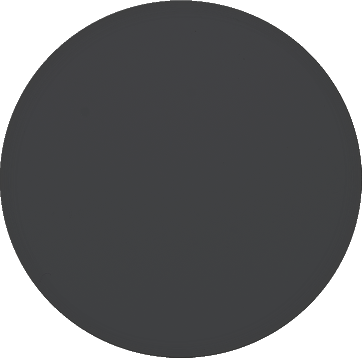
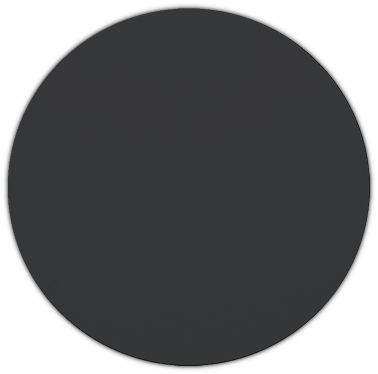
Permet de se déplaceer sur la mini-timeline Modifications mineures

Changed region(s): [[0.0, 0.0, 1.0, 1.0]]

diff --git a/Website/js/script-frise.js b/Website/js/script-frise.js
@@ -38,7 +38,7 @@ var eventsLaw = [	new Event(1968, "", "Convention de Vienne", "list-alt", 3, "Co
 
 var eventsDiv = [	new Event(1957, "", "Les véhicules autonomes dans la littérature", "book", 3, "Premières apparitions de véhicules autonomes dans la littérature", null),
 					new Event(2015, "Décembre", "Stephen Boulder prévient du danger de la conduite assistée", null, 2, "Stephen Boulder, ingénieur chez Jaguar, estime que la conduite semi-automatique est dangereuse et crée un fausse impression de sécurité", null),
-					new Event(2015, "Octobre", "Volvo prend la responsabilité de ses véhicules autonomes", null, 3, "Annonce de l'entière responsabilité de ses véhicules autonomes assumée par Håkan Samuelsson (PDG Volvo)", "http://fortune.com/2015/10/07/volvo-liability-self-driving-cars/"),
+					new Event(2015, "Octobre", "Volvo prend la responsabilité de ses véhicules autonomes", null, 2, "Annonce de l'entière responsabilité de ses véhicules autonomes assumée par Håkan Samuelsson (PDG Volvo)", "http://fortune.com/2015/10/07/volvo-liability-self-driving-cars/"),
 					new Event(2016, "Février", "Accrochage d'une Google Car", "fire", 2, "Accrochage mineure d'une Google Car Lexus avec un bus sur une route Californienne", "https://www.wired.com/2016/02/googles-self-driving-car-may-caused-first-crash/"),
 					new Event(2016, "Avril", "Les 10 questions de Consumer Watchdog à Google", null, 2, "Les 10 questions de Consumer Watchdog adressées à Google au sujet de la sécurité en marge du NHTSA", "http://www.consumerwatchdog.org/newsrelease/google%E2%80%99s-proposal-%E2%80%9Cfast-track%E2%80%9D-approval-driverless-cars-threat-public-safety-consumer-wa"),
 					new Event(2020, "", "Objectif zéro mort ou blessé grave", null, 3, "Objectif zéro mort ou blessé grave dans un accident impliquant un véhicule récent de la marque Volvo", null)];
@@ -54,6 +54,7 @@ $(function(){
 $(document).ready(function(){
 	timelineCreator (); // génère tous les blocks sur la timeline
 	timelineCalibrate(); // Gère l'affichage ou non des blocks et initialise "blockShow"
+	$("#menu-content").click(function(event) {onMiniTimeline(event);});
 	$("table").click(function() {onNull();});
 	onNull();
 });
@@ -164,6 +165,11 @@ function onBlock(id) {
 
 	if($("#content").css("display").localeCompare("none") == 0)
 		$("#content").animate({width:'toggle'},350);
+	preventProp (event);
+}
+
+// prevent immediate clic propagation
+function preventProp (event){
 	event.stopImmediatePropagation();
 }
 
@@ -183,7 +189,7 @@ function onNull() {
 		$("#content").animate({width:'toggle'},350);
 }
 
-// Get Event from block id
+// get Event from block id
 function id2e(id) {
 	id = id.substr(5);
 	var i = id.substr(0, 1);
@@ -196,6 +202,11 @@ function id2e(id) {
 		default: return null;
 	}
 	return(es[j-1]);
+}
+
+// gère le clic sur la mini timeline
+function onMiniTimeline (event) {
+	scroll((event.pageX - $(document).scrollLeft())*($(document).width()-$(window).width())/$(window).width());
 }
 
 // génère tous les blocks sur la timeline

diff --git a/Website/css/styleFrise.css b/Website/css/styleFrise.css
@@ -54,7 +54,7 @@ tr {
 	height: 100px;
 	overflow: hidden;
 	text-align: center;
-	padding: 5px;
+	padding: 6px;
 	background: url("../img/round-shadow.png");
 	background-repeat: no-repeat;
 	background-size: 10%;
@@ -65,6 +65,7 @@ tr {
 }
 .block:hover {
 	z-index: 3;
+	background: url("../img/round-shadow-hover.png");
 }
 .tiny {width: calc((100vh - 60px) * 0.33 * 0.5);height: calc((100vh - 60px) * 0.33 * 0.5);line-height: calc((100vh - 60px) * 0.33 * 0.5);}
 .small {width: calc((100vh - 60px) * 0.33 * 0.66);height: calc((100vh - 60px) * 0.33 * 0.66);line-height: calc((100vh - 60px) * 0.33 * 0.66);}
@@ -90,6 +91,7 @@ tr {
 	line-height: 20px;
 }
 
+
 .content {
 	position: fixed;
 	width: 34%;
@@ -101,6 +103,12 @@ tr {
 	box-shadow: 0 0 10px #000;
 	display: none;
 	padding: 30px;
+}
+@media (max-width:1000px) {
+	.content {width: 50%;}
+}
+@media (max-width:550px) {
+	.content {width: 100%;}
 }
 .content .title {
 	font-size: 24px;
@@ -126,6 +134,22 @@ tr {
 .content .link{
 	font-size: 16px;
 	margin-bottom: 5px;
+}
+.content .close {
+	position: absolute;
+	bottom: calc(30px + 60px);
+	left: 30px;
+	width: 26px;
+	height: 26px;
+	cursor: pointer;
+	background: url("../img/cross1.png");
+	background-repeat: no-repeat;
+	background-size: contain;
+	background-position: center;
+	opacity: 0.7;
+}
+.content .close:hover {
+	opacity: 1;
 }
 
 .menu {

diff --git a/Website/frise.html b/Website/frise.html
@@ -42,13 +42,14 @@
 		<div class="desc"></div>
 		<div class="infos"></div>
 		<div class="link"></div>
+		<div class="close" onclick="onNull();"></div>
 	</div>
 
 	<div class="menu"><center>
 		<div class="menu-content" id="menu-content">
-			<a onclick="javascript:onLeft();"><span class="glyphicon glyphicon-chevron-left" aria-hidden="true"></span></a>
-			<a href="index.html"><span class="glyphicon glyphicon-home" aria-hidden="true"></span></a>
-			<a onclick="javascript:onRight();"><span class="glyphicon glyphicon-chevron-right" aria-hidden="true"></span></a>
+			<a onclick="javascript:onLeft();preventProp (event);"><span class="glyphicon glyphicon-chevron-left" aria-hidden="true"></span></a>
+			<a href="index.html" onclick="javascript:preventProp (event);"><span class="glyphicon glyphicon-home" aria-hidden="true"></span></a>
+			<a onclick="javascript:onRight();preventProp (event);"><span class="glyphicon glyphicon-chevron-right" aria-hidden="true"></span></a>
 			<div id="date-menu">1920</div>
 		</div>
 	</center></div>
